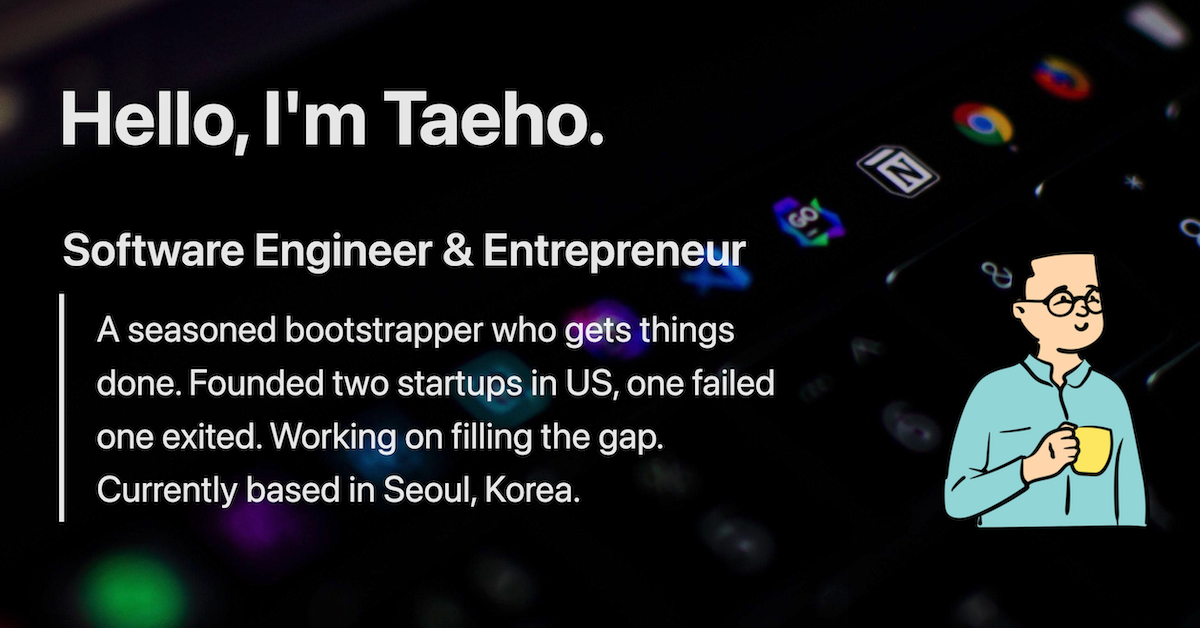
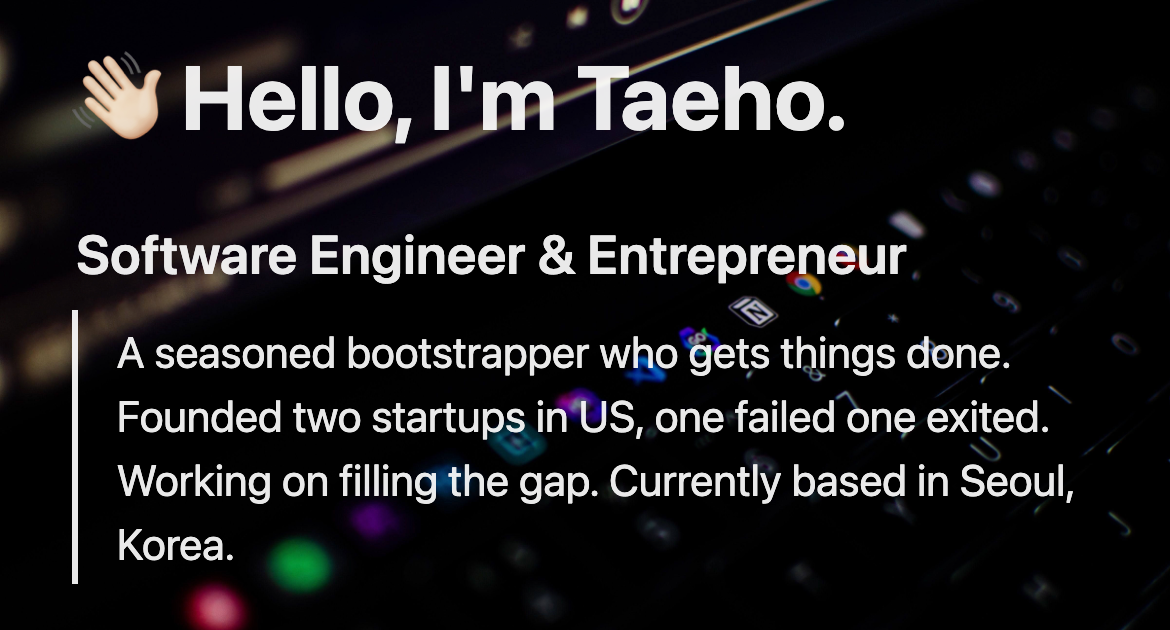
Replace thumbnail (#8)

diff --git a/next.config.js b/next.config.js
@@ -10,7 +10,7 @@ fs.readdirSync('./public/images/thumbnails/pages/').forEach((filename) => {
   pageIdsThatHaveThumnail.push(filename.split('.')[0]);
 });
 
-let nextConfig = {
+const nextConfig = {
   async rewrites() {
     return [
       {
